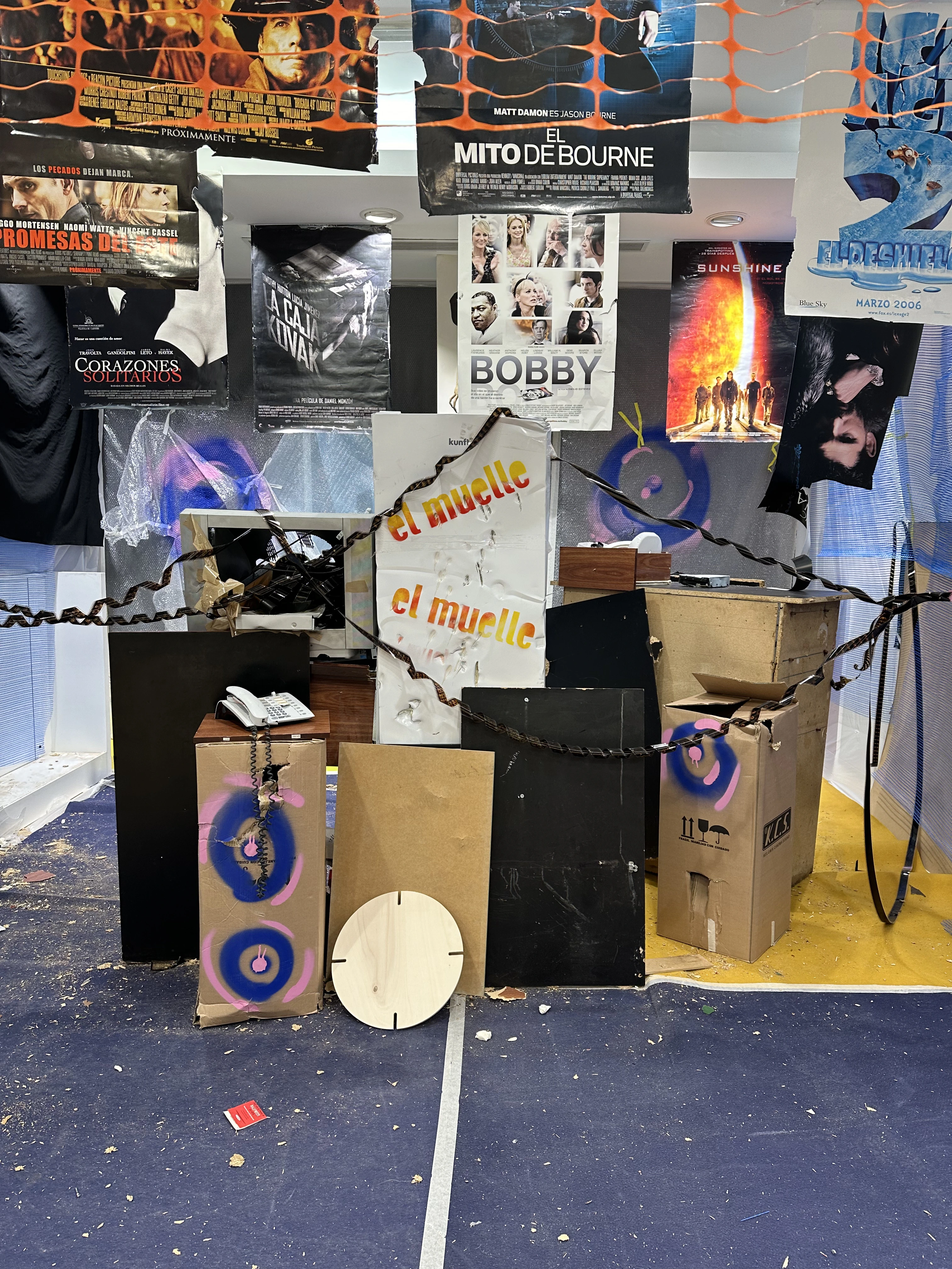
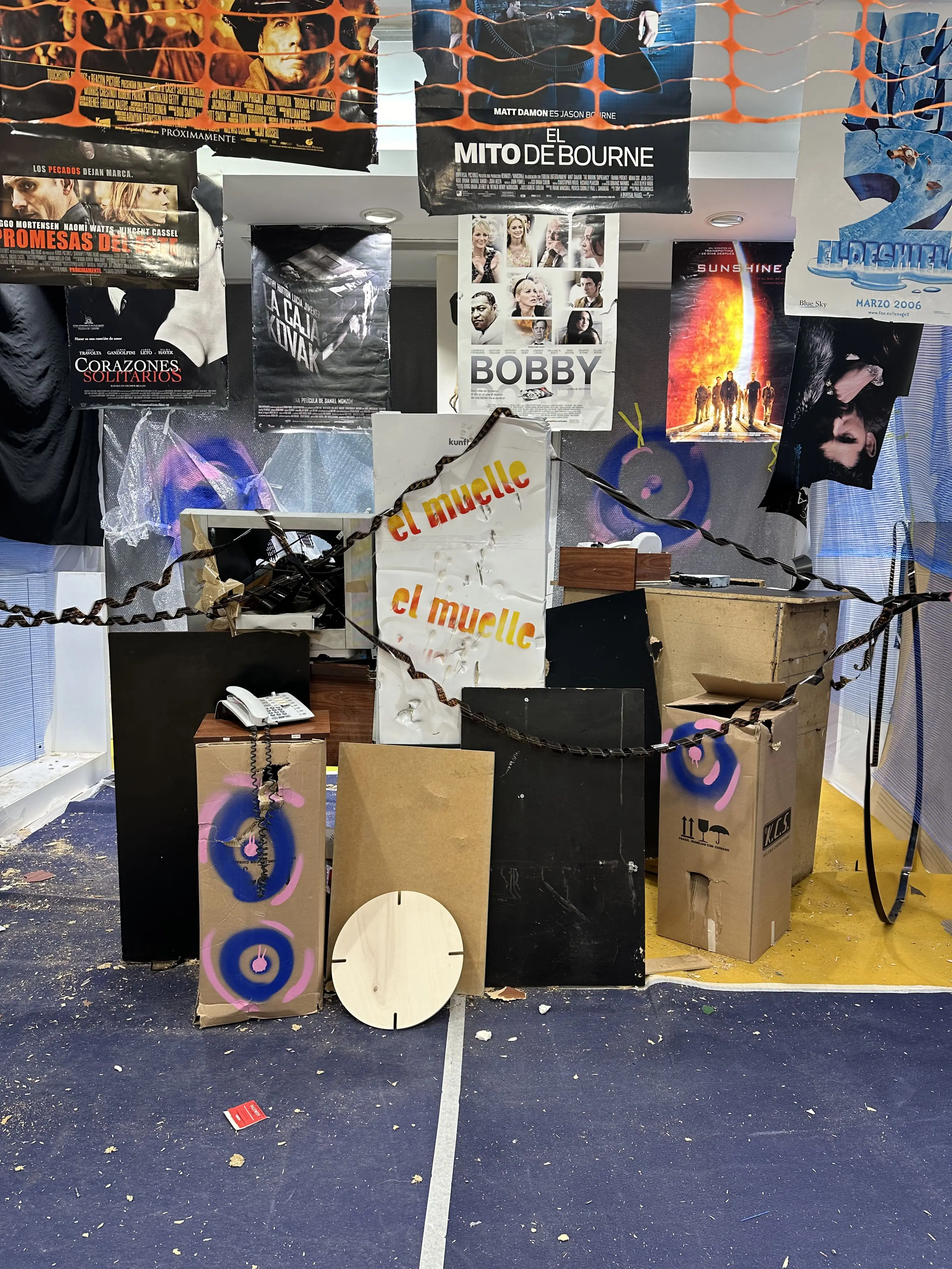
AD: Actualización de imagenes reducidas de tamaño

Changed region(s): [[0.0622, 0.75, 0.0933, 0.7812], [0.0, 0.6875, 0.0311, 0.7188]]

diff --git a/resources/views/enlimonado/pages/Nosotros/equipo.blade.php b/resources/views/enlimonado/pages/Nosotros/equipo.blade.php
@@ -5,7 +5,7 @@
             'cargo' => 'Dirección creativa',
             'frase' => '"Mi trabajo es hacer que lo imposible parezca normal"',
             'desc' => 'Responsable de las locuras que funcionan',
-            'img' => 'assets/img/enlimonado/Nosotros/Evento.jpg',
+            'img' => 'assets/img/enlimonado/Nosotros/Evento.webp',
             'color' => 'rgba(181, 246, 19, 0.85)',
         ],
         [
@@ -13,7 +13,7 @@
             'cargo' => 'Producción ejecutiva',
             'frase' => '"Si alguien dice que no se puede, yo encuentro la manera"',
             'desc' => 'El que convierte las ideas en realidad',
-            'img' => 'assets/img/enlimonado/Nosotros/Evento.jpg',
+            'img' => 'assets/img/enlimonado/Nosotros/Evento.webp',
             'color' => 'rgba(181, 246, 19, 0.85)',
         ],
         [
@@ -21,7 +21,7 @@
             'cargo' => 'Dirección de arte',
             'frase' => '"El diseño no es solo cómo se ve, sino cómo funciona"',
             'desc' => 'La maestra del caos visual organizado',
-            'img' => 'assets/img/enlimonado/Nosotros/Evento.jpg',
+            'img' => 'assets/img/enlimonado/Nosotros/Evento.webp',
             'color' => 'rgba(181, 246, 19, 0.85)',
         ],
     ];

diff --git a/resources/views/enlimonado/pages/Nosotros/experiencia.blade.php b/resources/views/enlimonado/pages/Nosotros/experiencia.blade.php
@@ -70,7 +70,7 @@
             </div>
 
             <div class="col-lg-6 position-relative mt-4 mt-lg-0">
-                <img src="{{ asset('assets/img/enlimonado/Nosotros/Evento.jpg') }}" alt="Eventos"
+                <img src="{{ asset('assets/img/enlimonado/Nosotros/Evento.webp') }}" alt="Eventos"
                     class="img-fluid rounded-4 shadow"
                     style="object-fit: cover; width: 100%; height: auto; border-radius: 15px">
 
